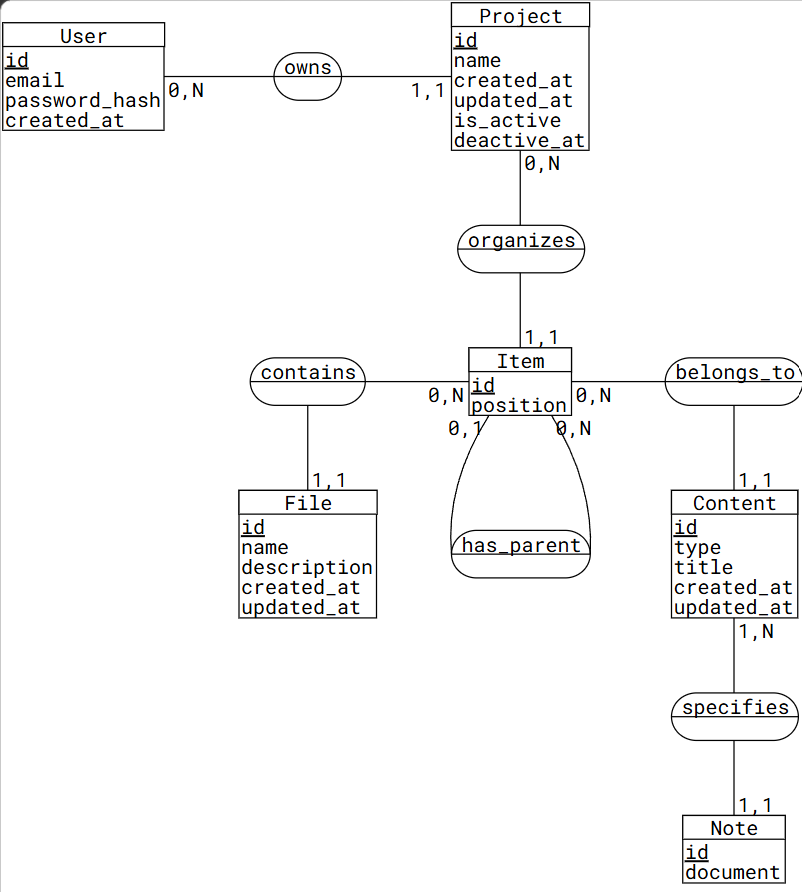
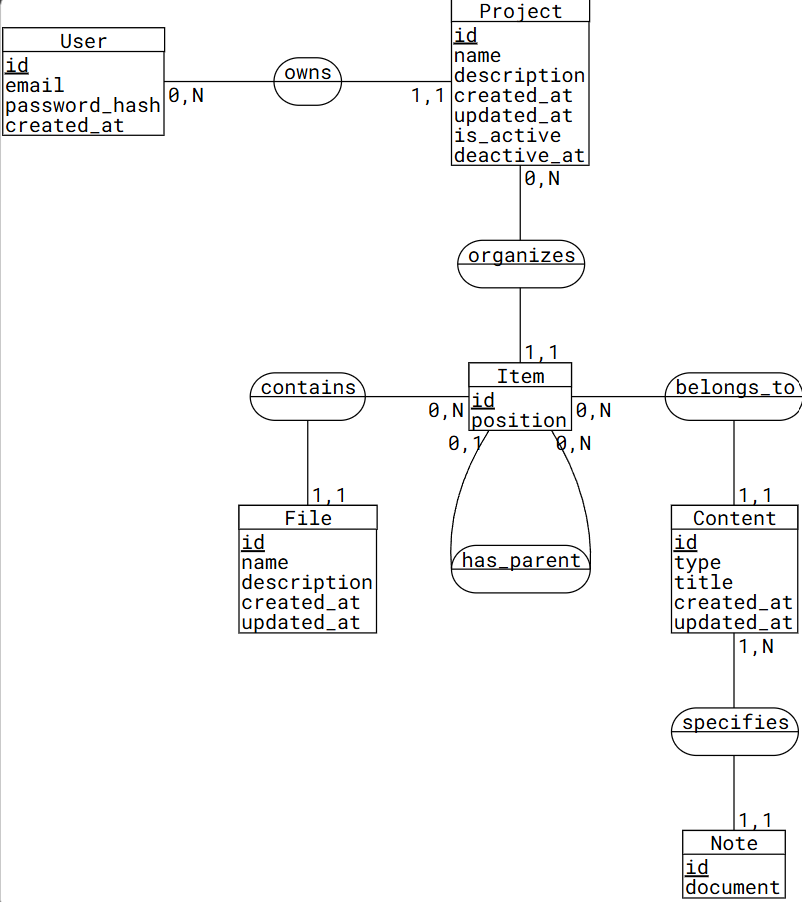
feat: maquette, da and moodboard

diff --git a/docs/maquettage/interfaces.md b/docs/maquettage/interfaces.md
@@ -1,0 +1,30 @@
+# Pages
+## Listing
+- 0- Accueil (non MVP)
+- 1- Page de connexion / inscription
+- 2- Hub de l'auteur (page d'arrivé après connexion où se trouvent les projets)
+- 3- Arborescence du projet
+- 4- Arborescence du dossier
+- 5- Page du contenu (ici de la note)
+- 6- Archives des projets
+
+## But
+0 : Présenter l'application et son fonctionnement
+
+1 : S'identifier pour accéder à son espace <br/>
+-> Mène au Hub (page 2)
+
+2 : Pouvoir sélectionner le projet sur lequel travailler ou créer un nouveau projet.<br/>
+-> si l'utilisateur créé un projet, il est redirigé sur l'arborescence de ce nouveau projet (vide)
+
+3 : Pouvoir naviguer à travers les divers dossiers et notes du projet. Contient également un petit descriptif du projet. Permet aussi de créer un dossire ou une note
+
+4 : Contient un descriptif du dossier pour savoir ce qu'il contient, le but est de naviguer dans le dossier et d'avoir une vue d'ensemble de ce qu'il contient. Peut ajouter un dossier ou une note
+
+5 : Permet de consulter ou de modifier une note via un éditeur de texte riche. La sauvegarde est automatique/
+
+6 : Section où se trouve tout les projets archivé avec leur résumé pour savoir de quoi parle le projet (à l'archivage, proposé d'update le résumé (?)). L'auteur peut "ré-activer" le projet ou le supprimer définitivement
+
+
+## Maquette
+[Maquette Figma](https://www.figma.com/design/oH5GJvXcolTuCznG7e2eB0/Atelier-des-Auteurs?node-id=0-1&t=LD0mugkF6ibuzeMB-1)

diff --git a/docs/schemas/diagramme_séquence.md b/docs/schemas/diagramme_séquence.md
@@ -1,0 +1,2 @@
+. la suppression définitive : comment ça fonctionne pour ce que contient les dossiers ? (suppression en cascade ? et dans le cas du multiplacement ? -> juste suppression des items dans ces cas)
+à long terme, seule la suppression des projets supprime tout ce qu'ils contiennent. Par contre, pour les dossiers, si il n'y a qu'un item pour les contenus, ça supprime, sinon ça supprime juste la ligne de l'item.
